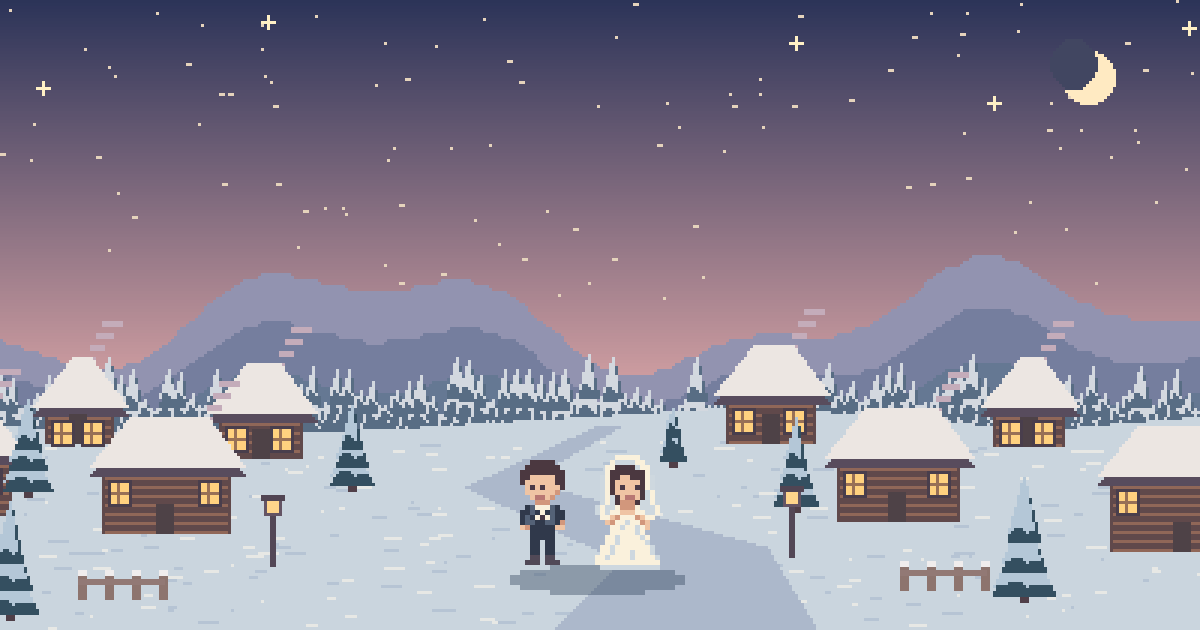
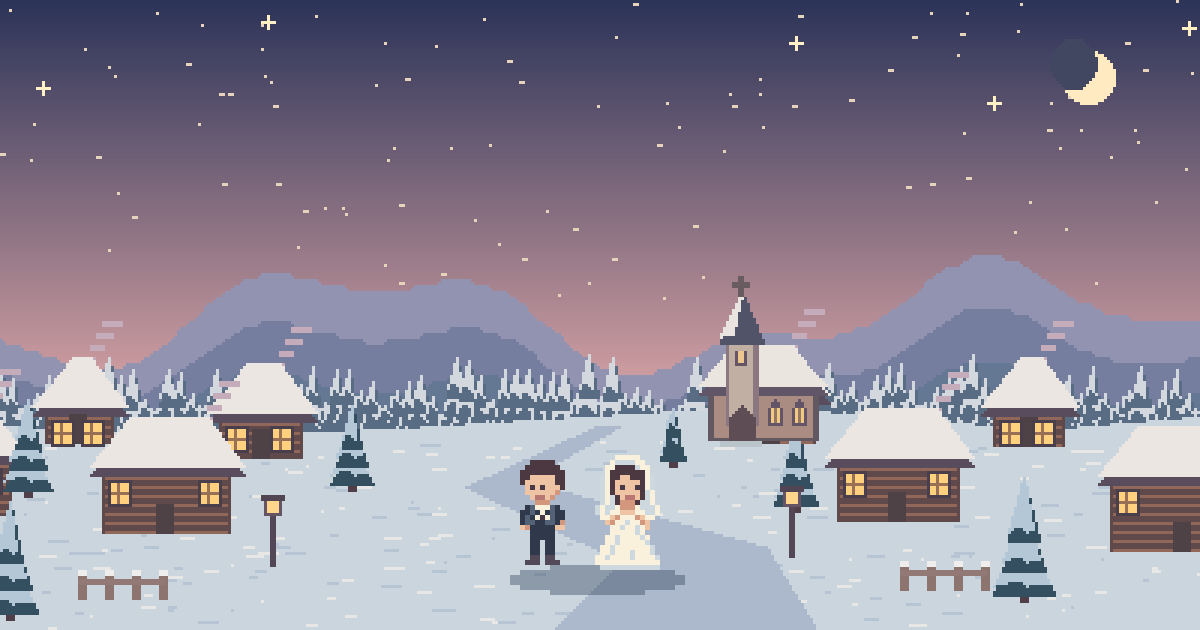
Personalize January wedding and reveal meal details after ceremony acceptance

Changed region(s): [[0.5858, 0.4524, 0.7092, 0.7238]]

diff --git a/quest.js b/quest.js
@@ -11,25 +11,24 @@ function parameter(keys, fallback) {
   }
   return fallback;
 }
-const groom = parameter(['groom'], '');
-const bride = parameter(['bride'], '');
 const combinedNames = parameter(['names', 'couple'], '');
-const couple = (groom && bride ? [groom, bride].join(' · ') : combinedNames)
-  || (groom || bride ? [groom || '신랑', bride || '신부'].join(' · ') : '우리 두 사람');
+const groom = parameter(['groom'], combinedNames ? '' : '덕준');
+const bride = parameter(['bride'], combinedNames ? '' : '나연');
+const couple = groom && bride ? groom + ' · ' + bride : combinedNames;
 const speakers = {
   groom: groom ? groom + ' · 신랑' : '신랑',
   bride: bride ? bride + ' · 신부' : '신부',
   both: couple,
 };
-const date = parameter(['date'], '추후 안내');
-const time = parameter(['time'], '추후 안내');
+const date = parameter(['date'], '2027-01-15');
+const time = parameter(['time'], '오후 1시');
 const reply = {name:'', wedding:'', lunch:'', note:''};
 const chapters = ['겨울 마을에서 인사하기','봉인된 편지 받기','초대장 펼쳐 보기','법원으로 향하기','답장 작성하기','편지 봉인 완료'];
 const scene = document.querySelector('.scene');
 byId('welcome-names').textContent = groom || bride || combinedNames ? couple : '겨울 마을의 결혼식';
 byId('signature').textContent = '사랑을 담아, ' + couple;
 const address = parameter(['address'], '');
-const lunchDetails = parameter(['lunchDetails'], '');
+const lunchDetails = parameter(['lunchDetails'], '오후 1시 45분 · Old Ellicott City');
 function button(label, action) {
   const element = document.createElement('button');
   element.textContent = label;
@@ -72,7 +71,7 @@ function render(chapter, speaker, message, mood, item = '') {
   prop.replaceChildren();
   if (chapter === 1 || chapter === 2) {
     const envelope = document.createElement('img');
-    envelope.src = chapter === 1 ? 'assets/sealed.png' : 'assets/opened.png';
+    envelope.src = chapter === 1 ? 'assets/heart-envelope.png' : 'assets/opened.png';
     envelope.alt = '';
     if (chapter === 1) {
       const open = document.createElement('button');
@@ -103,7 +102,8 @@ function welcome() {
 }
 function letter() {
   render(1, 'bride', '장갑 끼고는 리본을 못 묶겠더라. 그래서 도장을 꾹 찍었어. 자, 네 거야.', '♪');
-  button('봉투 받아 열기　✉', invitation);
+  paragraph('하트가 찍힌 봉투를 눌러 열어 보세요.');
+  document.querySelector('.envelope').focus({preventScroll: true});
 }
 function invitation() {
   render(2, 'both', '우리 편지, 받아 줘서 고마워. 예식장까지 같이 걸을래?', '♥');
@@ -179,7 +179,18 @@ function openBook(title, populate) {
   book.showModal();
   questTransition(book, 'open');
 }
-function showWedding() { openBook('예식 정보', weddingInfo); }
+function showWedding() {
+  openBook('예식 정보', container => {
+    weddingInfo(container);
+    if (reply.wedding === '참석') {
+      const heading = document.createElement('h3');
+      heading.textContent = '예식 후 식사';
+      const details = document.createElement('p');
+      details.textContent = lunchDetails;
+      container.append(heading, details);
+    }
+  });
+}
 byId('keepsake').onclick = showWedding;
 
 function replyStep(key, objective) {
@@ -190,7 +201,7 @@ function replyStep(key, objective) {
 function back(action, editing = false) {
   button(editing ? '수정 취소' : '이전', action).className = 'back';
 }
-function attendance(key, editing = false) {
+function attendance(key, editing = false, cancelEdit = review) {
   const ceremony = key === 'wedding';
   render(4, ceremony ? 'bride' : 'groom', ceremony ? '법원 예식에 참석해줄 수 있을까?' : '식이 끝난 뒤 점심에도 참석해줄 수 있을까?', '♪');
   replyStep(key, ceremony ? '예식 참석 여부' : '점심 참석 여부');
@@ -199,16 +210,25 @@ function attendance(key, editing = false) {
   for (const value of ['참석','불참']) {
     const label = value === '참석' ? event + '에 참석할게' : event + '은 어려워';
     button((reply[key] === value ? '✓ ' : '') + label, () => {
+      const previousWedding = reply.wedding;
       reply[key] = value;
+      if (ceremony && value === '불참') {
+        reply.lunch = '불참';
+      } else if (ceremony && (!editing || previousWedding !== value)) {
+        attendance('lunch', editing, () => {
+          reply.wedding = previousWedding;
+          review();
+        });
+        return;
+      }
       if (editing) review();
-      else if (ceremony) attendance('lunch');
       else guest();
     });
   }
-  back(editing ? review : ceremony ? details : () => attendance('wedding'), editing);
+  back(editing ? cancelEdit : ceremony ? details : () => attendance('wedding'), editing);
 }
 function guest(editing = false) {
-  render(4, 'groom', '연필은 내가 들고 있을게. 답장에 이름은 어떻게 적을까?', '♡');
+  render(4, 'groom', '이름을 알려 줄래?', '♡');
   replyStep('name', '이름 적기');
   const input = field('name', '답장에 적을 이름 (필수)');
   const error = document.createElement('p');
@@ -230,7 +250,7 @@ function guest(editing = false) {
   input.oninput = () => { error.textContent = ''; input.removeAttribute('aria-invalid'); };
   input.onkeydown = e => { if (e.key === 'Enter' && !e.isComposing) next(); };
   button(editing ? '수정한 답장 확인하기' : '다음', next);
-  back(editing ? review : () => { reply.name = input.value; attendance('lunch'); }, editing);
+  back(editing ? review : () => { reply.name = input.value; attendance(reply.wedding === '참석' ? 'lunch' : 'wedding'); }, editing);
 }
 function note(editing = false) {
   render(4, 'bride', '편지 아래가 한 줄 비었네. 우리 둘한테 남기고 싶은 말 있어?', '♥');
@@ -252,6 +272,7 @@ function replyRows(container, editable = false) {
     ['lunch', '예식 후 점심', () => attendance('lunch', true)],
     ['note', '축하 메시지', () => note(true)],
   ]) {
+    if (key === 'lunch' && reply.wedding !== '참석') continue;
     const row = document.createElement('div');
     row.className = 'reply-line';
     const value = document.createElement('span');
@@ -295,7 +316,7 @@ function done() {
   render(5, 'both', reply.name + '님, 겨울 마을에 들러 줘서 고마워요!', '♥', '✦ ♥ ✦');
   byId('objective').textContent = '답장 봉인 완료';
   paragraph(reply.wedding === '참석' ? '눈 오는 날, 예식장에서 반갑게 인사해요.' : '멀리서도 보내 주는 따뜻한 마음, 고마워요.');
-  paragraph('법원 예식 ' + reply.wedding + ' · 점심 ' + reply.lunch);
+  paragraph('법원 예식 ' + reply.wedding + (reply.wedding === '참석' ? ' · 식사 ' + reply.lunch : ''));
   paragraph('답장 전송을 요청했어요.');
   button('예식 정보 다시 보기', showWedding);
   button('내 답장 보기', () => openBook('내 답장', replyRows));

diff --git a/preview.html b/preview.html
@@ -9,12 +9,12 @@
 <body><main>
   <h1>초대 링크 준비</h1>
   <form id="builder">
-    <label>신랑 이름<input name="groom" maxlength="80"></label>
-    <label>신부 이름<input name="bride" maxlength="80"></label>
-    <label>예식 날짜<input type="date" name="date"></label>
-    <label>예식장 현지 시간<input type="time" name="time"></label>
+    <label>신랑 이름<input name="groom" value="덕준" maxlength="80"></label>
+    <label>신부 이름<input name="bride" value="나연" maxlength="80"></label>
+    <label>예식 날짜<input type="date" name="date" value="2027-01-15"></label>
+    <label>예식장 현지 시간<input type="time" name="time" value="13:00"></label>
     <label>확인된 예식장 주소 (선택)<input name="address" maxlength="80"></label>
-    <label>점심 시간과 장소 (선택)<input name="lunchDetails" maxlength="80"></label>
+    <label>점심 시간과 장소 (선택)<input name="lunchDetails" value="오후 1시 45분 · Old Ellicott City" maxlength="80"></label>
     <output><a id="link" target="_blank" rel="noopener"></a></output>
     <button type="button" id="copy">초대 링크 복사</button>
   </form>

diff --git a/index.html b/index.html
@@ -10,10 +10,10 @@
   <meta property="og:image" content="https://loop-by.github.io/once-upon-a-valley/assets/invitation-preview.png">
   <meta property="og:image:alt" content="노을 지는 겨울 마을에서 하객을 기다리는 신랑과 신부">
   <title>Once Upon a Valley · 겨울 마을의 초대장</title>
-  <link rel="stylesheet" href="style.css?v=5">
+  <link rel="stylesheet" href="style.css?v=6">
   <script src="effects.js?v=2" defer></script>
   <script src="rsvp.js?v=4" defer></script>
-  <script src="quest.js?v=6" defer></script>
+  <script src="quest.js?v=7" defer></script>
 </head>
 <body>
   <header>

diff --git a/style.css b/style.css
@@ -262,3 +262,6 @@ figure img { width: 128px; }
 }
 
 #actions .form-link { display: inline-flex; align-items: center; min-height: 44px; padding: 8px 12px; background: #f7dfb4; color: #583e32; border: 2px solid #96704d; font-weight: 700; }
+.scene[data-chapter="1"] #actions:empty { display: none; }
+.scene[data-chapter="1"] .envelope:focus-visible { outline: 2px dashed #ffe8ac; outline-offset: 2px; }
+.scene:not(.court) .landscape { background-image: url(assets/chapel-village.png); }
